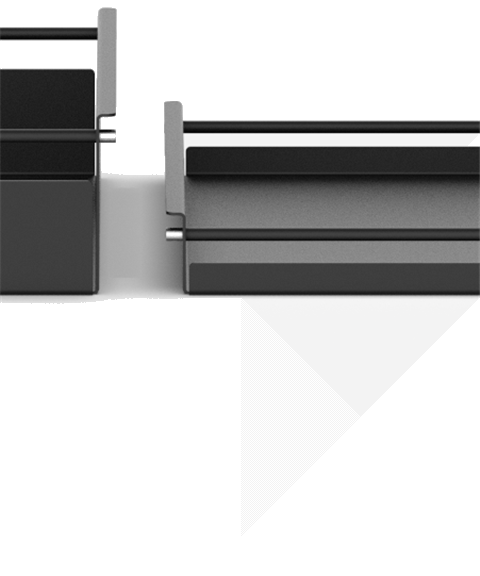
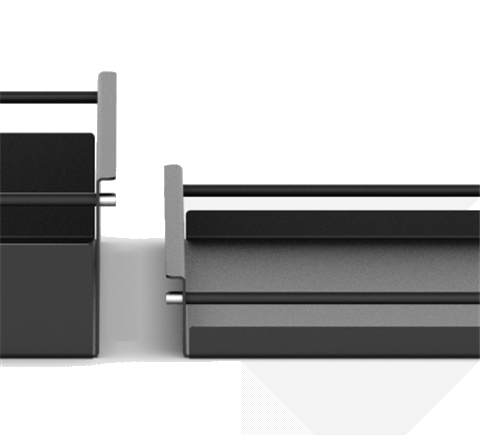
Fix small-drawer aspect ratio and add a default configuration
The bordeaux/black "small" crops were taller than the white one,
making the cutout nearly fill its wide, short slot and look like a
flat rectangle again. Re-cropped bordeaux and black to match white's
framing so the real object shape shows properly at any drawer size.

Also give the trolley a non-empty starting point: on first load and
on reset, it now comes pre-configured in Bordeaux with one wood
plate on top followed by a small, medium and large metal drawer,
instead of an empty interior.

diff --git a/js/script.js b/js/script.js
@@ -551,10 +551,26 @@
     renderAll();
   }
 
+  /* ---------------- default configuration ---------------- */
+  function applyDefaultConfiguration(){
+    drawers = {};
+    nextId = 1;
+    metalColor = 'bordeaux';
+    var pos = 0;
+    function place(kind, size, len){
+      drawers[nextId] = { id:nextId, kind:kind, size:size, start:pos, len:len };
+      nextId++;
+      pos += len;
+    }
+    place('wood', null, WOOD_LEN);
+    place('metal', 'small', SIZE_LEN.small);
+    place('metal', 'medium', SIZE_LEN.medium);
+    place('metal', 'large', SIZE_LEN.large);
+  }
+
   /* ---------------- reset ---------------- */
   document.getElementById('resetBtn').addEventListener('click', function(){
-    drawers = {};
-    metalColor = null;
+    applyDefaultConfiguration();
     engraveText = '';
     engraveInput.value = '';
     charCount.textContent = '0';
@@ -581,5 +597,6 @@
   });
 
   setView('open');
+  applyDefaultConfiguration();
   renderAll();
 })();
